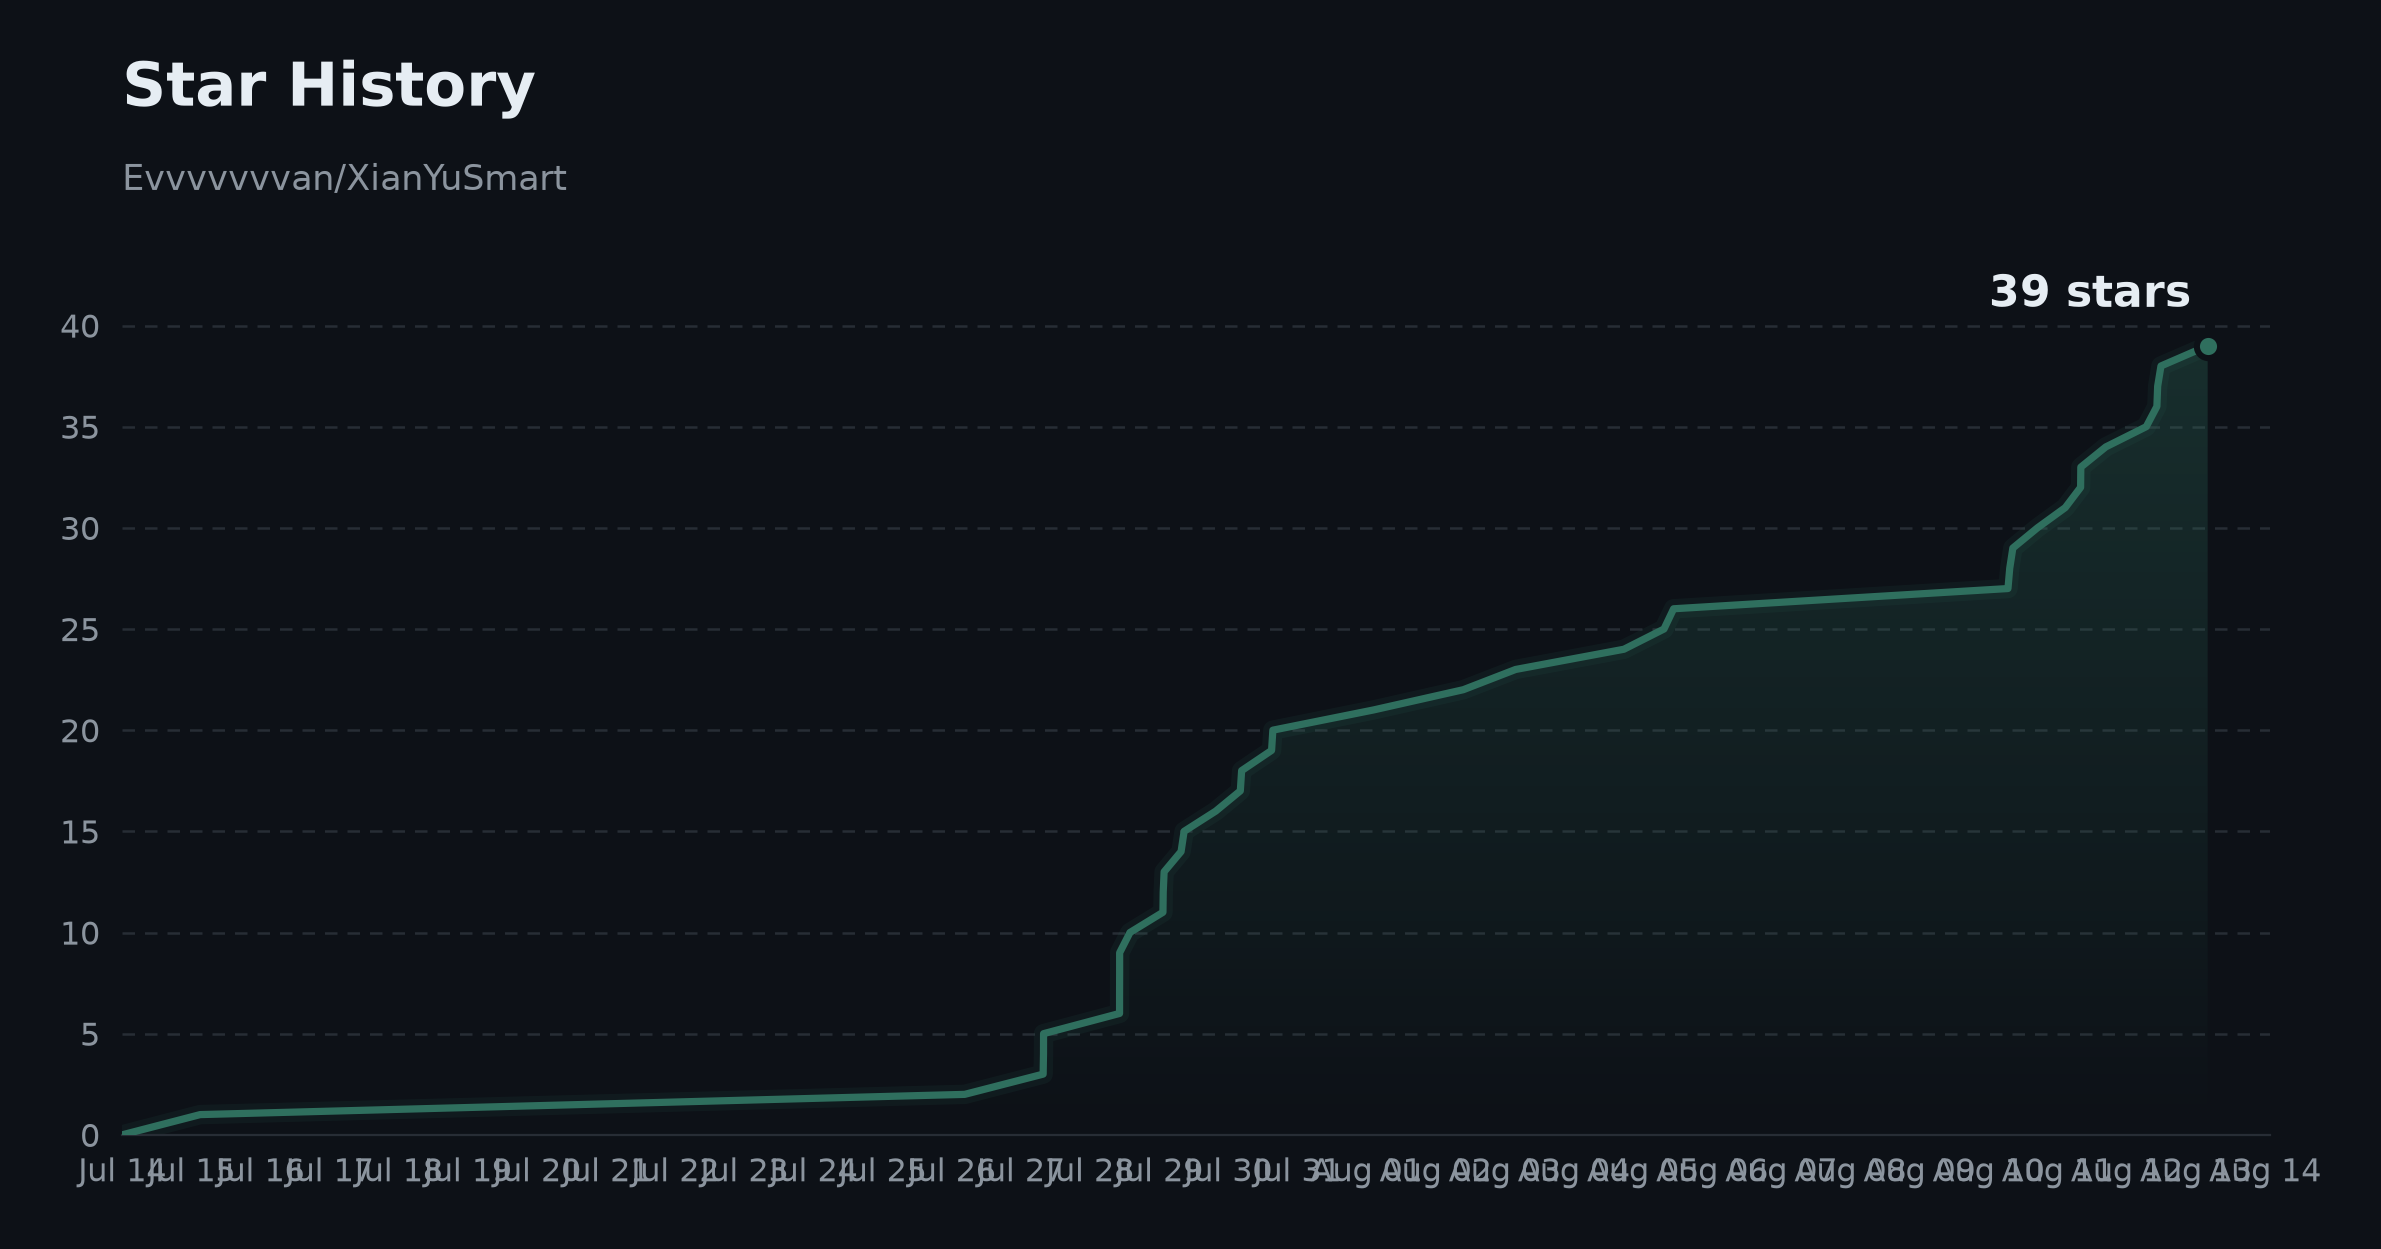
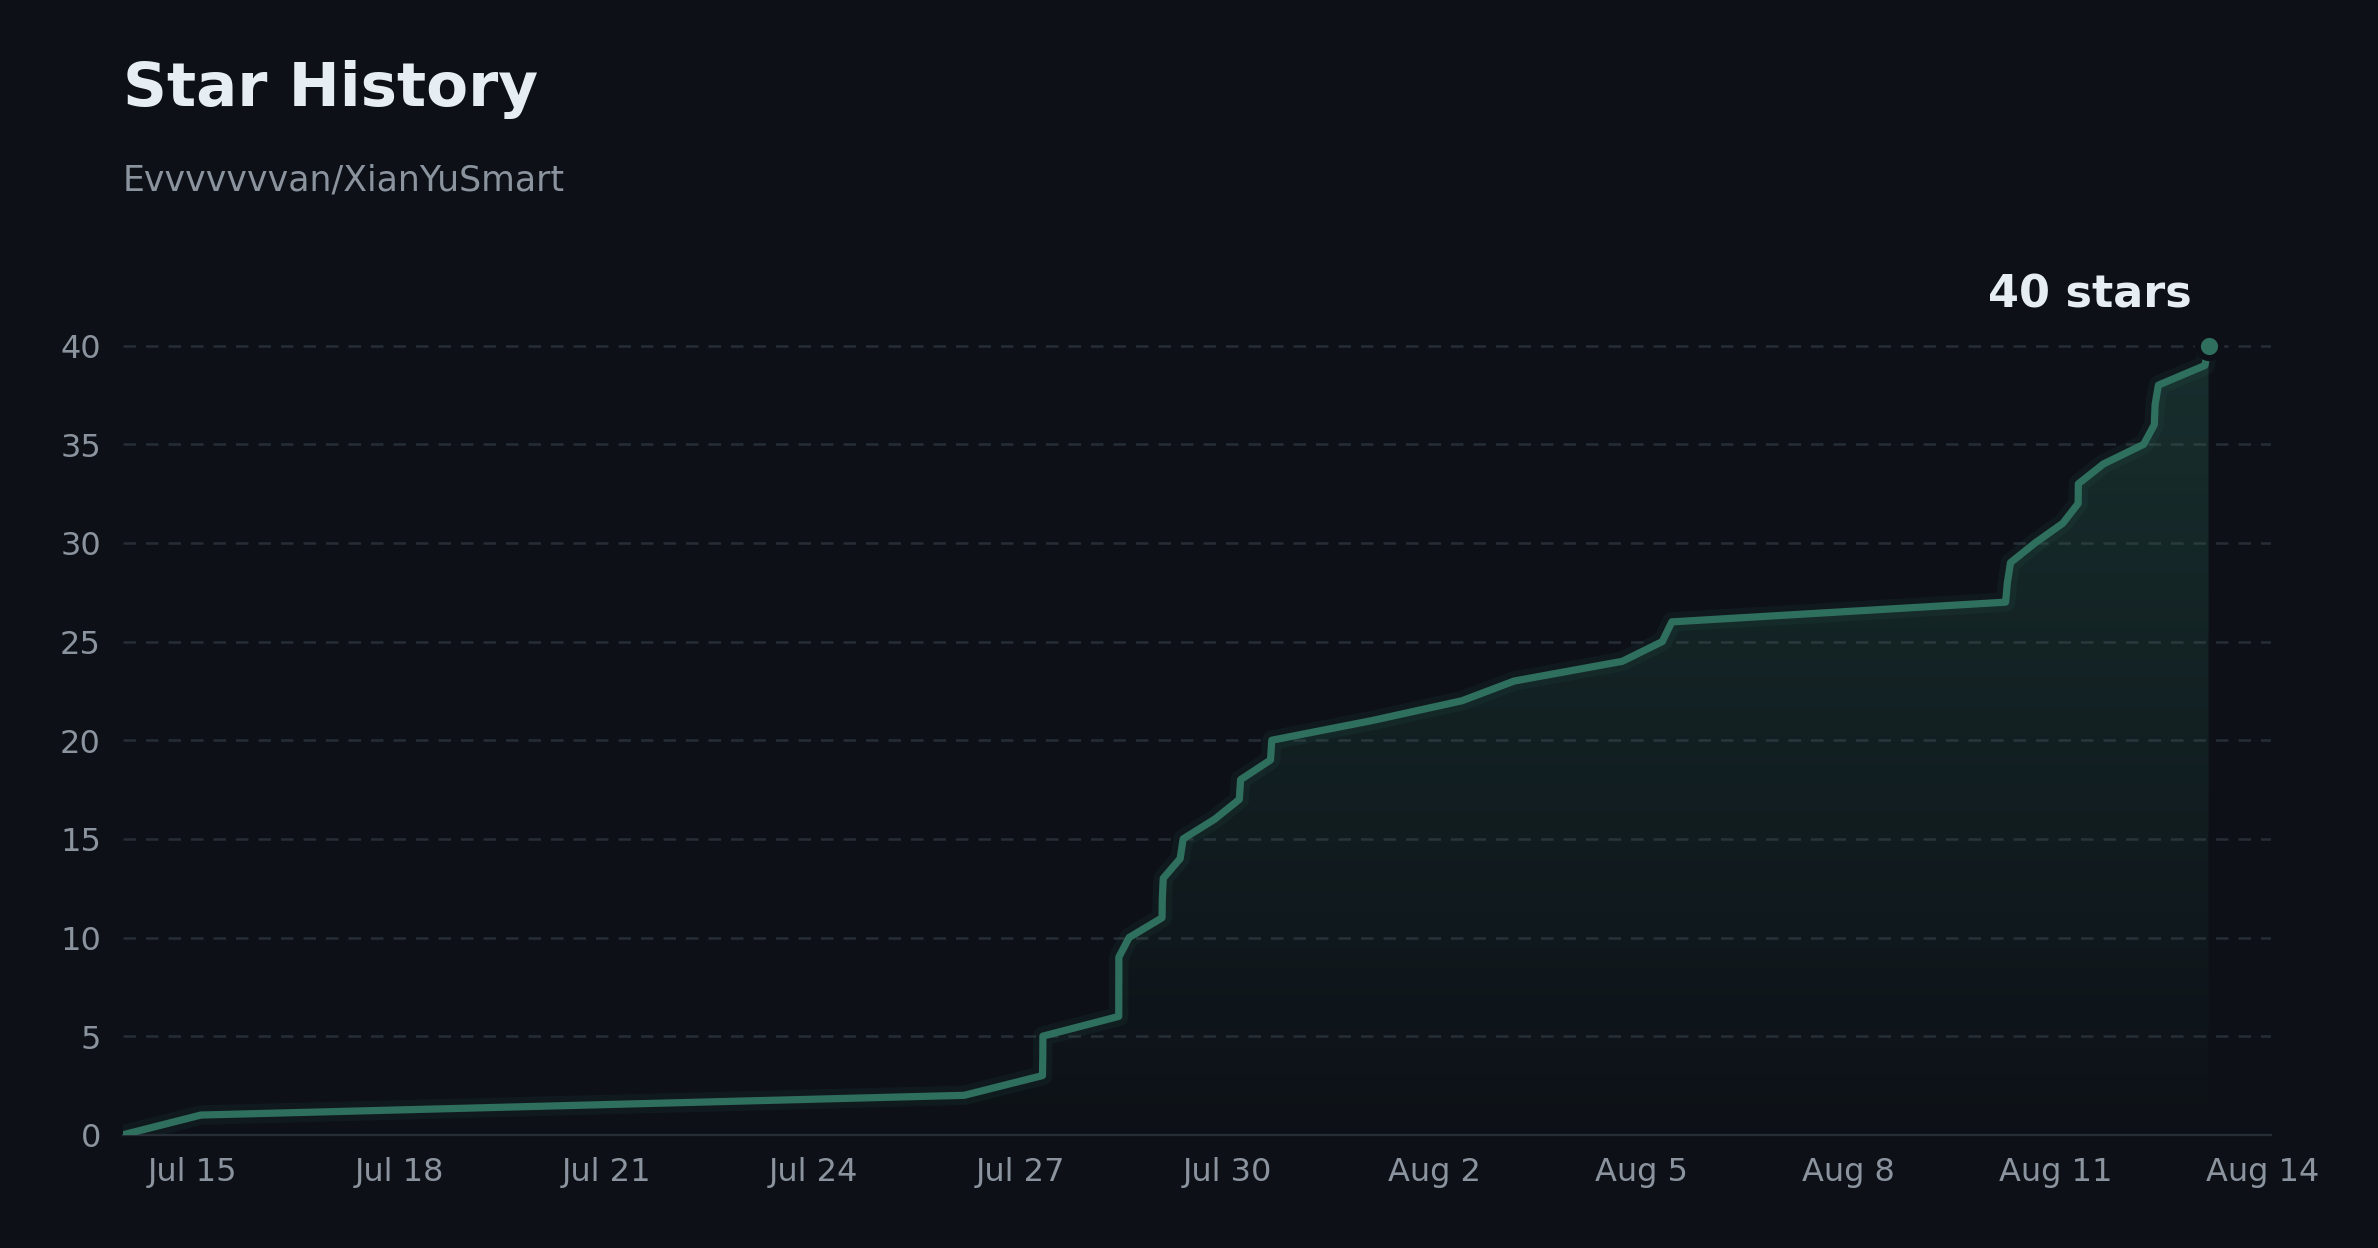
fix: improve star history display (#15)

diff --git a/scripts/gen_star_history.py b/scripts/gen_star_history.py
@@ -10,7 +10,7 @@ import subprocess
 import sys
 import time
 import urllib.request
-from datetime import datetime, timezone
+from datetime import datetime, timedelta, timezone
 from pathlib import Path
 
 import matplotlib
@@ -33,6 +33,12 @@ THEMES = {
     "light": dict(bg="#ffffff", text="#1f2328", subtext="#6a737d", grid="#dfe3e8"),
     "dark": dict(bg="#0d1117", text="#e6edf3", subtext="#8b949e", grid="#272d35"),
 }
+
+# 限制横轴标签数量，避免日期范围增长后文字重叠。
+MAX_XTICKS = 12
+DAY_STEPS = (1, 2, 3, 7, 14)
+MONTH_STEPS = (1, 2, 3, 6)
+YEAR_STEPS = (1, 2, 5, 10)
 
 
 def get_token() -> str | None:
@@ -114,6 +120,108 @@ def build_series(starred: list[str], start: datetime) -> tuple[np.ndarray, np.nd
     x = [mdates.date2num(start)] + [mdates.date2num(value) for value in visible_times]
     y = [base] + [base + index for index in range(1, len(visible_times) + 1)]
     return np.array(x), np.array(y)
+
+
+def pick_xticks(x_start: float, x_end: float) -> tuple[list[float], str]:
+    """按时间跨度选择横轴刻度，并保留最新日期。"""
+    start = mdates.num2date(x_start)
+    end = mdates.num2date(x_end)
+    span_days = x_end - x_start
+
+    for step in DAY_STEPS:
+        if span_days / step <= MAX_XTICKS:
+            anchor = end.replace(hour=0, minute=0, second=0, microsecond=0)
+            ticks = []
+            while (value := mdates.date2num(anchor)) >= x_start:
+                ticks.append(value)
+                anchor -= timedelta(days=step)
+            date_format = "day-year" if start.year != end.year else "day"
+            return sorted(ticks), date_format
+
+    span_months = (end.year - start.year) * 12 + end.month - start.month
+    for step in MONTH_STEPS:
+        if span_months / step <= MAX_XTICKS:
+            year = end.year
+            month = end.month
+            ticks = []
+            while (
+                value := mdates.date2num(
+                    end.replace(
+                        year=year,
+                        month=month,
+                        day=1,
+                        hour=0,
+                        minute=0,
+                        second=0,
+                        microsecond=0,
+                    )
+                )
+            ) >= x_start:
+                ticks.append(value)
+                month -= step
+                while month < 1:
+                    month += 12
+                    year -= 1
+            date_format = "month-year" if start.year != end.year else "month"
+            return sorted(ticks), date_format
+
+    span_years = end.year - start.year
+    step = next(
+        (value for value in YEAR_STEPS if span_years / value <= MAX_XTICKS),
+        max(1, -(-span_years // MAX_XTICKS)),
+    )
+    year = end.year
+    ticks = []
+    while (
+        value := mdates.date2num(
+            end.replace(
+                year=year,
+                month=1,
+                day=1,
+                hour=0,
+                minute=0,
+                second=0,
+                microsecond=0,
+            )
+        )
+    ) >= x_start:
+        ticks.append(value)
+        year -= step
+    return sorted(ticks), "year"
+
+
+def format_xtick(value: float, date_format: str) -> str:
+    """使用跨平台格式输出横轴日期。"""
+    date = mdates.num2date(value)
+    if date_format == "day":
+        return f"{date:%b} {date.day}"
+    if date_format == "day-year":
+        return f"{date:%b} {date.day}, {date.year}"
+    if date_format == "month":
+        return f"{date:%b}"
+    if date_format == "month-year":
+        return f"{date:%b} {date.year}"
+    return str(date.year)
+
+
+def thin_xticklabels(figure, axes, minimum_gap: float = 14.0) -> None:
+    """按实际渲染宽度继续精简标签，并保留最新日期。"""
+    ticks = list(axes.get_xticks())
+    for interval in range(1, max(len(ticks), 1) + 1):
+        visible_ticks = ticks[::-1][::interval][::-1]
+        axes.set_xticks(visible_ticks)
+        figure.canvas.draw()
+        renderer = figure.canvas.get_renderer()
+        boxes = [
+            label.get_window_extent(renderer=renderer)
+            for label in axes.get_xticklabels()
+            if label.get_text()
+        ]
+        if all(
+            next_box.x0 - current_box.x1 >= minimum_gap
+            for current_box, next_box in zip(boxes, boxes[1:])
+        ):
+            return
 
 
 def draw(
@@ -204,9 +312,14 @@ def draw(
         axes.spines[side].set_visible(False)
     axes.spines["bottom"].set_color(grid)
     axes.tick_params(axis="both", length=0, labelsize=11.5, colors=subtext, pad=8)
-    axes.xaxis.set_major_locator(mdates.DayLocator())
-    axes.xaxis.set_major_formatter(mdates.DateFormatter("%b %d"))
+    ticks, date_format = pick_xticks(*axes.get_xlim())
+    axes.set_xticks(ticks)
+    axes.xaxis.set_major_formatter(
+        FuncFormatter(lambda value, _position: format_xtick(value, date_format))
+    )
     axes.yaxis.set_major_formatter(FuncFormatter(lambda value, _position: f"{int(value):,}"))
+
+    thin_xticklabels(figure, axes)
 
     figure.savefig(output, facecolor=background, bbox_inches="tight", pad_inches=0.3)
     plt.close(figure)

diff --git a/README.md b/README.md
@@ -441,7 +441,7 @@ docker compose exec mysql mysqldump -uxianyusmart -p xianyusmart > xianyusmart.s
 
 下载、复制、修改、部署、运行或分发本项目，即表示已阅读并接受 [完整使用限制与免责声明](DISCLAIMER.md)。
 
-## Star History
+## ⭐ Star History
 
 <a href="docs/assets/star-history-light.png">
   <picture>
@@ -450,4 +450,4 @@ docker compose exec mysql mysqldump -uxianyusmart -p xianyusmart > xianyusmart.s
     <img alt="XianYuSmart Star History Chart" src="docs/assets/star-history-light.png" width="100%" />
   </picture>
 </a>
-<sub>由 [`scripts/gen_star_history.py`](scripts/gen_star_history.py) 生成，[GitHub Actions](.github/workflows/star-history.yml) 每日自动更新 · 点击图片查看大图</sub>
+<sub>由 <a href="scripts/gen_star_history.py"><code>scripts/gen_star_history.py</code></a> 生成，<a href=".github/workflows/star-history.yml">GitHub Actions</a> 每日自动更新 · 点击图片查看大图</sub>
